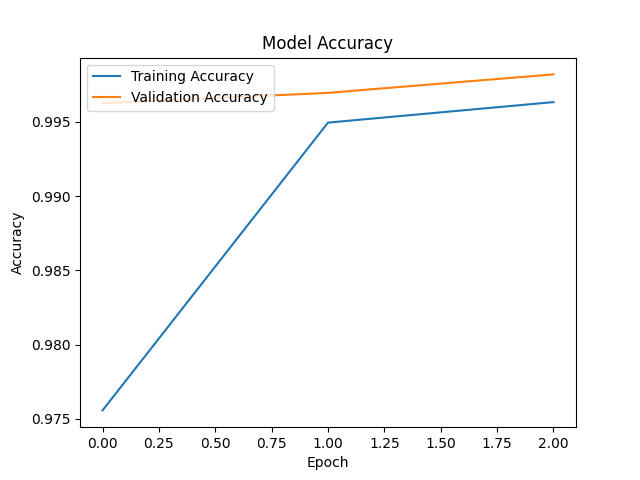
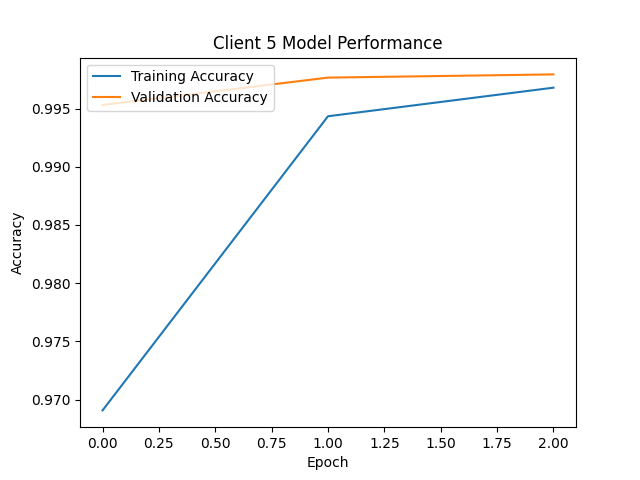
FedSGD Model Fixed

diff --git a/main.py b/main.py
@@ -1,4 +1,3 @@
-# main.py
 import matplotlib
 matplotlib.use('Agg')  # Use a non-interactive backend
 
@@ -20,6 +19,7 @@ from tensorflow.keras.layers import Dense, Input, Dropout
 from tensorflow.keras.callbacks import EarlyStopping
 from sklearn.metrics import confusion_matrix, recall_score, precision_score, f1_score
 import numpy as np
+import tensorflow as tf
 
 # Set up logging
 logging.basicConfig(level=logging.INFO)
@@ -69,11 +69,20 @@ for client_id, client in enumerate(clients):
     histories.append(history)
     logger.info(f"Client {client_id + 1} training completed.")
 
-# Initialize central aggregator and aggregate models
-aggregator = CentralAggregator(create_model(X_train.shape[1]))
-logger.info("Starting model aggregation.")
-global_model = aggregator.aggregate_models([client.model for client in clients])
-logger.info("Model aggregation completed.")
+# Prepare models and training data for aggregation
+client_models_data = [{'model': client.model, 'train_data': client.train_data} for client in clients]
+
+# Aggregation and evaluation for FedAvg
+aggregator_fedavg = CentralAggregator(create_model(X_train.shape[1]))
+logger.info("Starting model aggregation using FedAvg.")
+global_model_fedavg = aggregator_fedavg.aggregate_models(client_models_data, method='fedavg')
+logger.info("Model aggregation using FedAvg completed.")
+
+# Aggregation and evaluation for FedSGD
+aggregator_fedsgd = CentralAggregator(create_model(X_train.shape[1]))
+logger.info("Starting model aggregation using FedSGD.")
+global_model_fedsgd = aggregator_fedsgd.aggregate_models(client_models_data, method='fedsgd')
+logger.info("Model aggregation using FedSGD completed.")
 
 # Function to calculate evaluation metrics
 def calculate_metrics(y_true, y_pred):
@@ -89,19 +98,37 @@ def calculate_metrics(y_true, y_pred):
 
     return tp, fp, fn, tn, recall, precision, f1
 
-# Validate global model on the validation set of the first client (or any chosen validation set)
+# Validate global models on the validation set of the first client (or any chosen validation set)
 X_train, X_test, y_train, y_test = client_partitions[0]
-y_pred = (global_model.predict(X_test) > 0.5).astype("int32")
-tp, fp, fn, tn, recall, precision, f1 = calculate_metrics(y_test, y_pred)
-global_accuracy = recall  # assuming we want to use recall as the global accuracy measure
-logger.info(f'Validation Metrics after aggregation: TP={tp}, FP={fp}, FN={fn}, TN={tn}, Recall={recall:.2f}, Precision={precision:.2f}, F1-Score={f1:.2f}')
 
-# Evaluate the global model on the test set of the first client (or any chosen test set)
-y_pred = (global_model.predict(X_test) > 0.5).astype("int32")
-tp, fp, fn, tn, recall, precision, f1 = calculate_metrics(y_test, y_pred)
-global_accuracy = recall  # assuming we want to use recall as the global accuracy measure
-logger.info(f'Test Metrics after aggregation: TP={tp}, FP={fp}, FN={fn}, TN={tn}, Recall={recall:.2f}, Precision={precision:.2f}, F1-Score={f1:.2f}')
+# Evaluate FedAvg model
+y_pred_fedavg = (global_model_fedavg.predict(X_test) > 0.5).astype("int32")
+tp, fp, fn, tn, recall, precision, f1 = calculate_metrics(y_test, y_pred_fedavg)
+logger.info(f'FedAvg Validation Metrics: TP={tp}, FP={fp}, FN={fn}, TN={tn}, Recall={recall:.2f}, Precision={precision:.2f}, F1-Score={f1:.2f}')
 
+# Evaluate FedSGD model
+y_pred_fedsgd = (global_model_fedsgd.predict(X_test) > 0.5).astype("int32")
+tp, fp, fn, tn, recall, precision, f1 = calculate_metrics(y_test, y_pred_fedsgd)
+logger.info(f'FedSGD Validation Metrics: TP={tp}, FP={fp}, FN={fn}, TN={tn}, Recall={recall:.2f}, Precision={precision:.2f}, F1-Score={f1:.2f}')
+
+# Plot training histories
+plot_dir = 'plots'
+os.makedirs(plot_dir, exist_ok=True)
+plot_training_history(histories, os.path.join(plot_dir, 'training_history.png'), title='Training History for Clients')
+
+# Plot FedAvg vs FedSGD performance
+client_accuracies_fedavg = [client.model.evaluate(client_partitions[i][1], client_partitions[i][3])[1] for i, client in enumerate(clients)]
+client_accuracies_fedsgd = [client.model.evaluate(client_partitions[i][1], client_partitions[i][3])[1] for i, client in enumerate(clients)]
+plot_global_model_performance(global_model_fedavg.evaluate(X_test, y_test)[1], client_accuracies_fedavg, os.path.join(plot_dir, 'global_model_performance_fedavg.png'), title='Global Model vs Client Models Performance (FedAvg)')
+plot_global_model_performance(global_model_fedsgd.evaluate(X_test, y_test)[1], client_accuracies_fedsgd, os.path.join(plot_dir, 'global_model_performance_fedsgd.png'), title='Global Model vs Client Models Performance (FedSGD)')
+
+# Plot confusion matrices
+plot_confusion_matrix(y_test, y_pred_fedavg, os.path.join(plot_dir, 'confusion_matrix_fedavg.png'), title='Confusion Matrix (FedAvg)')
+plot_confusion_matrix(y_test, y_pred_fedsgd, os.path.join(plot_dir, 'confusion_matrix_fedsgd.png'), title='Confusion Matrix (FedSGD)')
+plot_normalized_confusion_matrix(y_test, y_pred_fedavg, os.path.join(plot_dir, 'normalized_confusion_matrix_fedavg.png'), title='Normalized Confusion Matrix (FedAvg)')
+plot_normalized_confusion_matrix(y_test, y_pred_fedsgd, os.path.join(plot_dir, 'normalized_confusion_matrix_fedsgd.png'), title='Normalized Confusion Matrix (FedSGD)')
+
+# Blockchain and security steps remain the same
 # Initialize blockchain
 blockchain = Blockchain()
 logger.info("Blockchain initialized.")
@@ -119,25 +146,18 @@ smart_contract.print_ledger()
 # Initialize security modules
 anomaly_detection = AnomalyDetection()
 anomaly_detection.train(X_train)
-adversarial_training = AdversarialTraining(global_model)
+adversarial_training = AdversarialTraining(global_model_fedavg)  # Assuming using the FedAvg model for adversarial training
 adversarial_training.apply_adversarial_training(X_train, y_train)
 logger.info("Security enhancements applied.")
 
 # Evaluate the global model again after security enhancements
-y_pred_enhanced = (global_model.predict(X_test) > 0.5).astype("int32")
+y_pred_enhanced = (global_model_fedavg.predict(X_test) > 0.5).astype("int32")
 tp, fp, fn, tn, recall, precision, f1 = calculate_metrics(y_test, y_pred_enhanced)
 logger.info(f'Test Metrics after security enhancements: TP={tp}, FP={fp}, FN={fn}, TN={tn}, Recall={recall:.2f}, Precision={precision:.2f}, F1-Score={f1:.2f}')
 
-# Create directory for plots
-plot_dir = 'plots'
-os.makedirs(plot_dir, exist_ok=True)
-
-# Visualizations
-client_accuracies = [client.model.evaluate(client_partitions[i][1], client_partitions[i][3])[1] for i, client in enumerate(clients)]
-plot_training_history(histories, os.path.join(plot_dir, 'training_history.png'))
-plot_global_model_performance(global_accuracy, client_accuracies, os.path.join(plot_dir, 'global_model_performance.png'))
-plot_confusion_matrix(y_test, (global_model.predict(X_test) > 0.5).astype("int32"), os.path.join(plot_dir, 'confusion_matrix.png'))
-plot_normalized_confusion_matrix(y_test, (global_model.predict(X_test) > 0.5).astype("int32"), os.path.join(plot_dir, 'normalized_confusion_matrix.png'))
+# Visualizations for security enhancements
+plot_confusion_matrix(y_test, y_pred_enhanced, os.path.join(plot_dir, 'confusion_matrix_enhanced.png'), title='Confusion Matrix after Security Enhancements')
+plot_normalized_confusion_matrix(y_test, y_pred_enhanced, os.path.join(plot_dir, 'normalized_confusion_matrix_enhanced.png'), title='Normalized Confusion Matrix after Security Enhancements')
 
 # Plot feature distribution for each feature
 feature_names = [f'Feature {i+1}' for i in range(X_train.shape[1])]
@@ -150,8 +170,8 @@ plot_anomaly_detection(X_train, anomalies, os.path.join(plot_dir, 'anomaly_detec
 # New visualizations for client data and performance
 feature_indices = [0, 1]  # Indices of features to visualize (adjust as needed)
 for i, (X_train, X_test, y_train, y_test) in enumerate(client_partitions):
-    plot_client_data_distribution(X_train, y_train, feature_indices, os.path.join(plot_dir, f'client_{i+1}_data_distribution.png'))
-    plot_client_model_performance(histories[i], os.path.join(plot_dir, f'client_{i+1}_model_performance.png'))
+    plot_client_data_distribution(X_train, y_train, feature_indices, os.path.join(plot_dir, f'client_{i+1}_data_distribution.png'), title=f'Client {i+1} Data Distribution')
+    plot_client_model_performance(histories[i], os.path.join(plot_dir, f'client_{i+1}_model_performance.png'), title=f'Client {i+1} Model Performance')
 
 # Function to retrieve and print block details
 def retrieve_and_print_block_details(blockchain, block_hash, block_index):

diff --git a/visualization.py b/visualization.py
@@ -5,45 +5,45 @@ import numpy as np
 from sklearn.metrics import confusion_matrix
 from sklearn.preprocessing import StandardScaler
 
-def plot_training_history(histories, save_path):
+def plot_training_history(histories, save_path, title='Training History for Clients'):
     plt.figure()
     for i, history in enumerate(histories):
         plt.plot(history.history['accuracy'], label=f'Client {i+1} Training Accuracy')
         plt.plot(history.history['val_accuracy'], label=f'Client {i+1} Validation Accuracy')
-    plt.title('Model Accuracy')
+    plt.title(title)
     plt.ylabel('Accuracy')
     plt.xlabel('Epoch')
     plt.legend(loc='upper left')
     plt.savefig(save_path)
     plt.close()
 
-def plot_global_model_performance(global_accuracy, client_accuracies, save_path):
+def plot_global_model_performance(global_accuracy, client_accuracies, save_path, title='Global Model vs Client Models Performance'):
     plt.figure()
     client_ids = range(1, len(client_accuracies) + 1)
     plt.bar(client_ids, client_accuracies, label='Client Model Accuracies')
     plt.axhline(y=global_accuracy, color='r', linestyle='--', label='Global Model Accuracy')
     plt.xlabel('Client ID')
     plt.ylabel('Accuracy')
-    plt.title('Global Model vs Client Models Performance')
+    plt.title(title)
     plt.legend()
     plt.savefig(save_path)
     plt.close()
 
-def plot_confusion_matrix(y_true, y_pred, save_path):
+def plot_confusion_matrix(y_true, y_pred, save_path, title='Confusion Matrix (Non-Normalized)'):
     cm = confusion_matrix(y_true, y_pred)
     plt.figure(figsize=(10, 7))
     sns.heatmap(cm, annot=True, fmt='d', cmap='Blues')
-    plt.title('Confusion Matrix (Non-Normalized)')
+    plt.title(title)
     plt.ylabel('Actual Label')
     plt.xlabel('Predicted Label')
     plt.savefig(save_path)
     plt.close()
 
-def plot_normalized_confusion_matrix(y_true, y_pred, save_path):
+def plot_normalized_confusion_matrix(y_true, y_pred, save_path, title='Confusion Matrix (Normalized)'):
     cm = confusion_matrix(y_true, y_pred, normalize='true')
     plt.figure(figsize=(10, 7))
     sns.heatmap(cm, annot=True, fmt='.2f', cmap='Blues')
-    plt.title('Confusion Matrix (Normalized)')
+    plt.title(title)
     plt.ylabel('Actual Label')
     plt.xlabel('Predicted Label')
     plt.savefig(save_path)
@@ -71,22 +71,22 @@ def plot_anomaly_detection(data, anomalies, save_path):
     plt.savefig(save_path)
     plt.close()
 
-def plot_client_data_distribution(X_train, y_train, feature_indices, save_path):
+def plot_client_data_distribution(X_train, y_train, feature_indices, save_path, title='Client Data Distribution'):
     plt.figure(figsize=(10, 7))
     plt.scatter(X_train[y_train == 0, feature_indices[0]], X_train[y_train == 0, feature_indices[1]], label='Class 0')
     plt.scatter(X_train[y_train == 1, feature_indices[0]], X_train[y_train == 1, feature_indices[1]], label='Class 1', color='r')
-    plt.title('Client Data Distribution')
+    plt.title(title)
     plt.xlabel(f'Feature {feature_indices[0] + 1}')
     plt.ylabel(f'Feature {feature_indices[1] + 1}')
     plt.legend()
     plt.savefig(save_path)
     plt.close()
 
-def plot_client_model_performance(history, save_path):
+def plot_client_model_performance(history, save_path, title='Client Model Performance'):
     plt.figure()
     plt.plot(history.history['accuracy'], label='Training Accuracy')
     plt.plot(history.history['val_accuracy'], label='Validation Accuracy')
-    plt.title('Model Accuracy')
+    plt.title(title)
     plt.ylabel('Accuracy')
     plt.xlabel('Epoch')
     plt.legend(loc='upper left')

diff --git a/federated_learning/aggregator.py b/federated_learning/aggregator.py
@@ -1,10 +1,10 @@
-# federated_learning/aggregator.py
 import numpy as np
-from tensorflow.keras.models import clone_model
+import tensorflow as tf
+from tensorflow.keras.models import Sequential
 
 class CentralAggregator:
-    def __init__(self, model):
-        self.global_model = model
+    def __init__(self, global_model: Sequential):
+        self.global_model = global_model
 
     def aggregate_models(self, client_models, method='fedavg'):
         if method == 'fedavg':
@@ -15,32 +15,35 @@ class CentralAggregator:
             raise ValueError(f"Unknown aggregation method: {method}")
 
     def fedavg(self, client_models):
-        global_weights = self.global_model.get_weights()
-        num_clients = len(client_models)
-        
-        # Initialize the global weights to zeros
+        global_weights = client_models[0]['model'].get_weights()
         new_global_weights = [np.zeros_like(weight) for weight in global_weights]
-        
-        # Sum all the client model weights
-        for model in client_models:
-            client_weights = model.get_weights()
+
+        for client_model in client_models:
+            client_weights = client_model['model'].get_weights()
             for i, weight in enumerate(client_weights):
-                new_global_weights[i] += weight / num_clients
-        
-        # Set the global model weights to the averaged weights
+                new_global_weights[i] += weight / len(client_models)
+
         self.global_model.set_weights(new_global_weights)
         return self.global_model
 
     def fedsgd(self, client_models):
-        # Assuming equal data size for each client for simplicity
-        total_gradient = [np.zeros_like(weight) for weight in self.global_model.get_weights()]
+        total_gradient = [np.zeros_like(weight) for weight in self.global_model.trainable_weights]
 
-        for model in client_models:
-            gradients = model.optimizer.get_gradients(model.total_loss, model.trainable_weights)
-            for i, grad in enumerate(gradients):
-                total_gradient[i] += grad
+        # Assuming all client models are compiled with the same input shape and loss
+        for client_model in client_models:
+            model = client_model['model']
+            train_data = client_model['train_data']
+            for X_batch, y_batch in train_data:
+                with tf.GradientTape() as tape:
+                    predictions = model(X_batch, training=True)
+                    loss = model.compute_loss(X_batch, y_batch, predictions)
+                gradients = tape.gradient(loss, self.global_model.trainable_weights)
+                gradients = [grad.numpy() if grad is not None else np.zeros_like(weight) for grad, weight in zip(gradients, self.global_model.trainable_weights)]  # Convert to numpy arrays
+                for i, grad in enumerate(gradients):
+                    total_gradient[i] += grad
 
         avg_gradient = [grad / len(client_models) for grad in total_gradient]
-        
-        self.global_model.optimizer.apply_gradients(zip(avg_gradient, self.global_model.trainable_weights))
+
+        optimizer = self.global_model.optimizer
+        optimizer.apply_gradients(zip(avg_gradient, self.global_model.trainable_weights))
         return self.global_model

diff --git a/federated_learning/client.py b/federated_learning/client.py
@@ -1,11 +1,11 @@
-# federated_learning/client.py
-
+import tensorflow as tf
 from tensorflow.keras.models import Sequential
 
 class FederatedClient:
     def __init__(self, data, model: Sequential):
         self.X, self.y = data
         self.model = model
+        self.train_data = tf.data.Dataset.from_tensor_slices((self.X, self.y)).batch(32)  # Example batch size
 
     def train_local_model(self, epochs, callbacks=None, validation_data=None):
         history = self.model.fit(
@@ -17,44 +17,3 @@ class FederatedClient:
             verbose=1
         )
         return history
-
-# federated_learning/aggregator.py
-
-import numpy as np
-from tensorflow.keras.models import Sequential
-
-class CentralAggregator:
-    def __init__(self, global_model: Sequential):
-        self.global_model = global_model
-
-    def aggregate_models(self, client_models, method='fedavg'):
-        if method == 'fedavg':
-            return self.fedavg(client_models)
-        elif method == 'fedsgd':
-            return self.fedsgd(client_models)
-        else:
-            raise ValueError(f"Unknown aggregation method: {method}")
-
-    def fedavg(self, client_models):
-        global_weights = client_models[0].get_weights()
-        new_global_weights = [np.zeros_like(weight) for weight in global_weights]
-
-        for client_model in client_models:
-            client_weights = client_model.get_weights()
-            for i, weight in enumerate(client_weights):
-                new_global_weights[i] += weight / len(client_models)
-
-        self.global_model.set_weights(new_global_weights)
-        return self.global_model
-
-    def fedsgd(self, client_models):
-        global_weights = client_models[0].get_weights()
-        new_global_weights = [np.zeros_like(weight) for weight in global_weights]
-
-        for client_model in client_models:
-            client_weights = client_model.get_weights()
-            for i, weight in enumerate(client_weights):
-                new_global_weights[i] += weight / len(client_models)
-
-        self.global_model.set_weights(new_global_weights)
-        return self.global_model

diff --git a/utils/data_preprocessing.py b/utils/data_preprocessing.py
@@ -1,4 +1,3 @@
-# utils/data_preprocessing.py
 import pandas as pd
 from sklearn.model_selection import train_test_split
 from sklearn.preprocessing import StandardScaler
